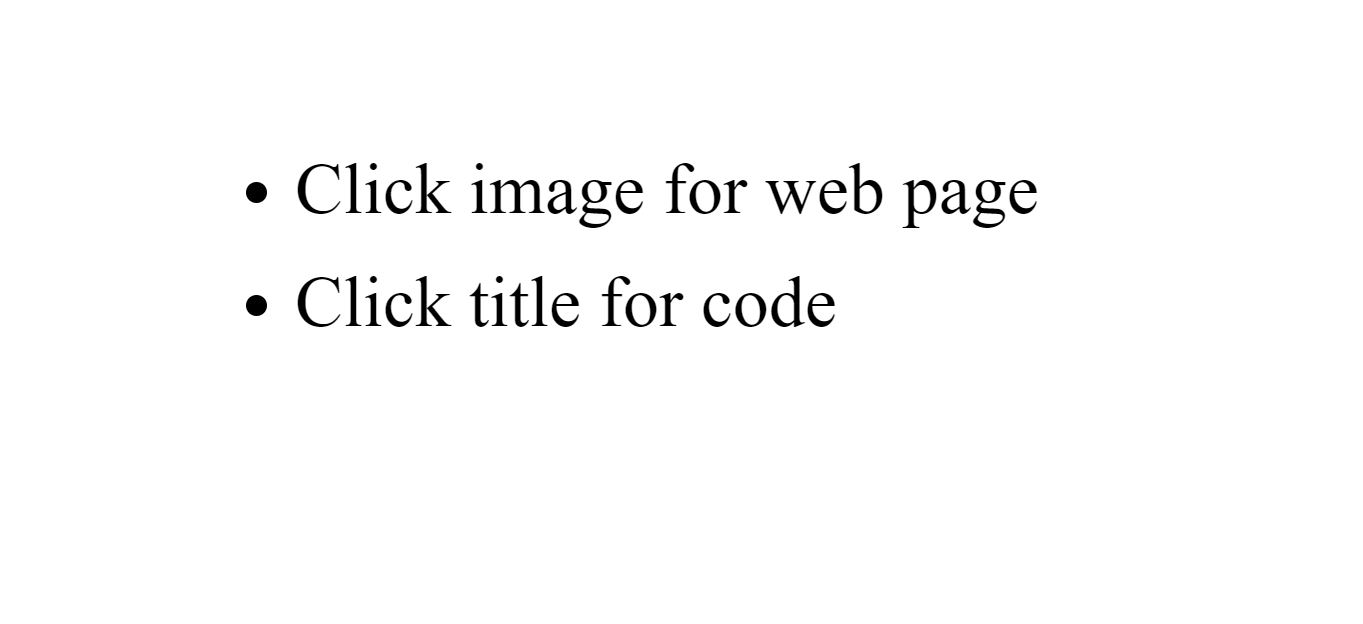
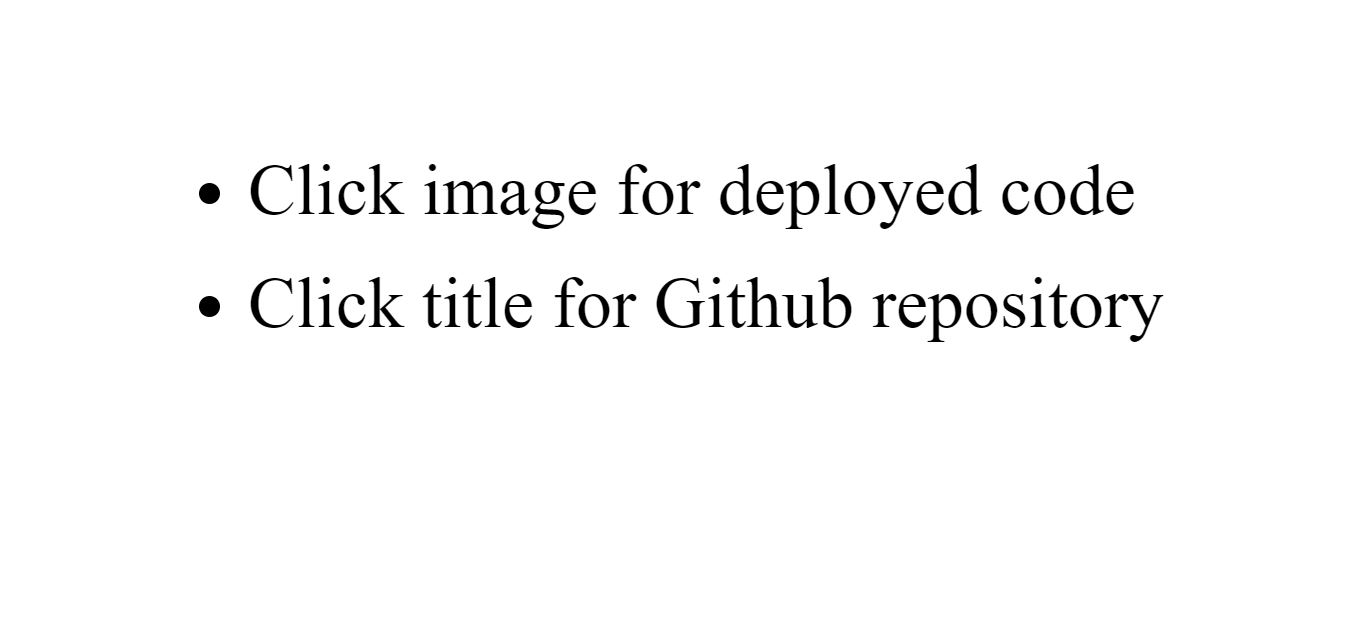
update

Changed region(s): [[0.1233, 0.4263, 0.8628, 0.5481], [0.1233, 0.2436, 0.832, 0.3654]]

diff --git a/portfolio.html b/portfolio.html
@@ -74,14 +74,21 @@
                                 </h5>
                             </div>
                             <div class="col-md-4">
+                                <a href="https://amcaron1.github.io/Word-Guess-Game/" target="_blank"><img src="assets/images/MovieHangman.JPG"></a>
+                                <h5>
+                                    <a href="https://github.com/amcaron1/Word-Guess-Game/" target="_blank">Movie Hangman</a>
+                                </h5>
+                            </div>
+                            
+                        </div>
+
+                        <div class="row">
+                            <div class="col-md-4">
                                 <a href="https://amcaron1.github.io/liri-node-app/" target="_blank"><img src="assets/images/bandCommand.JPG"></a>
                                 <h5>
                                     <a href="https://github.com/amcaron1/liri-node-app/" target="_blank">LIRI Bot</a>
                                 </h5>
                             </div>
-                        </div>
-
-                        <div class="row">
                             <div class="col-md-4">
                                 <a href="https://amcaron1.github.io/ConstructorWordGuess/" target="_blank"><img src="assets/images/ConstructorWordGuess.JPG"></a>
                                 <h5>
@@ -94,15 +101,16 @@
                                     <a href="https://github.com/amcaron1/Bamazon/" target="_blank">Bamazon</a>
                                 </h5>
                             </div>
+                            
+                        </div>
+
+                        <div class="row">
                             <div class="col-md-4">
                                 <a href="https://friend-finder59.herokuapp.com/" target="_blank"><img src="assets/images/Friend_Finder.JPG"></a>
                                 <h5>
                                     <a href="https://github.com/amcaron1/Friend_Finder/" target="_blank">Friend Finder</a>
                                 </h5>
                             </div>
-                        </div>
-
-                        <div class="row">
                             <div class="col-md-4">
                                 <a href="https://stormy-reef-18159.herokuapp.com/" target="_blank"><img src="assets/images/burger.JPG"></a>
                                 <h5>

diff --git a/assets/Instructions.html b/assets/Instructions.html
@@ -17,7 +17,7 @@
             .instructions{
                 font-size: 72px;
                 margin-top: 150px;
-                margin-left: 250px;
+                margin-left: 200px;
             }
             li{
                 margin-bottom: 30px;
@@ -25,8 +25,8 @@
         </style>
 
     <ul class="instructions">
-        <li>Click image for web page</li>
-        <li>Click title for code</li>
+        <li>Click image for deployed code</li>
+        <li>Click title for Github repository</li>
     </ul>
 </body>
 </html>
